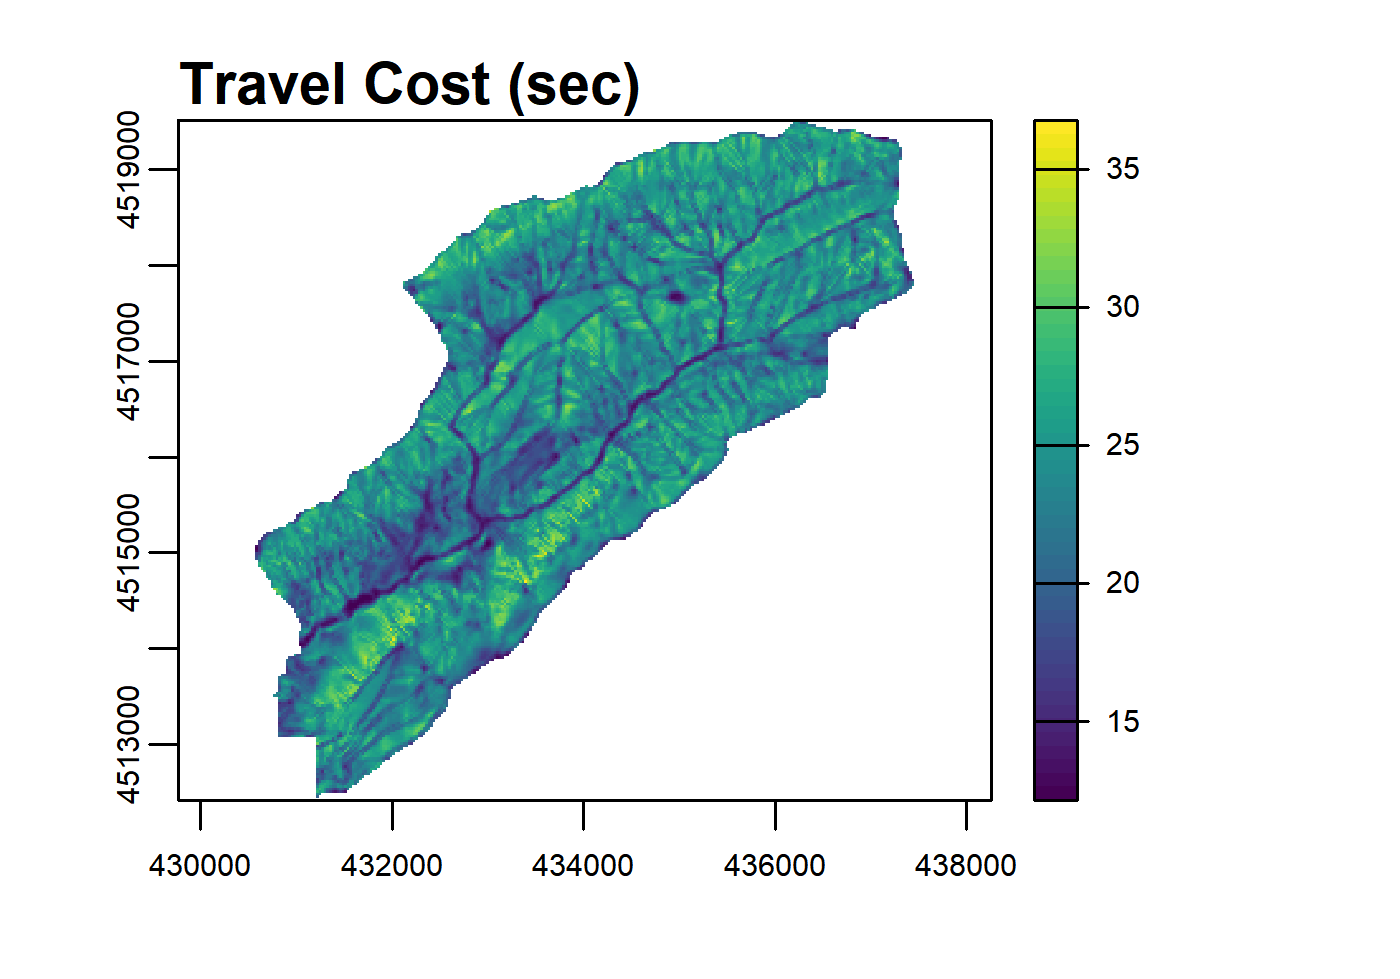
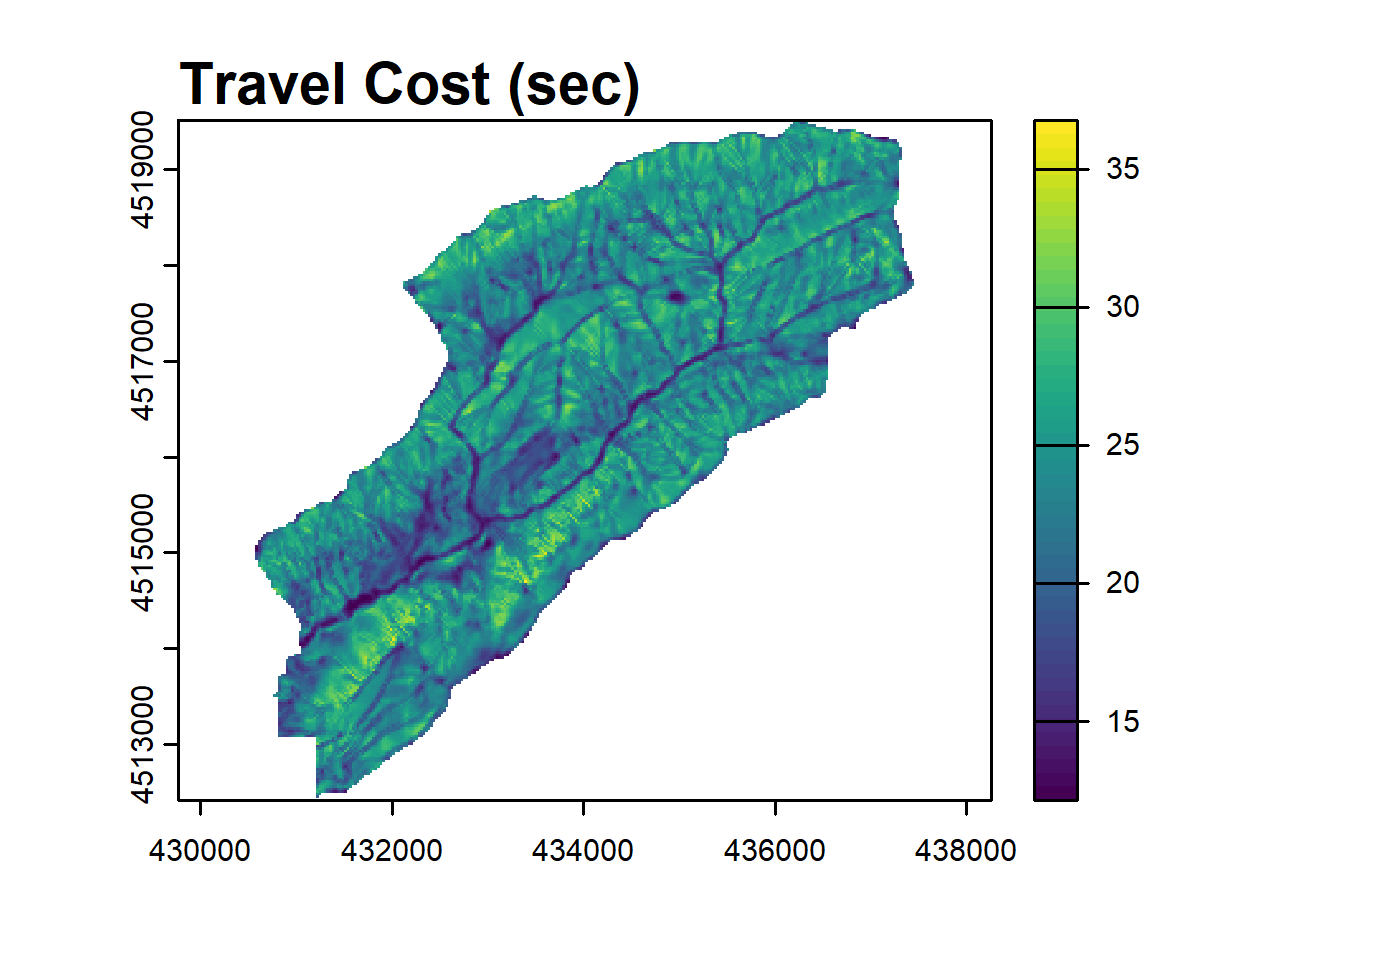
stuff

diff --git a/README.md b/README.md
@@ -15,19 +15,6 @@ package, though it works with more modern spatial tools, specifically
 [`sf`](https://r-spatial.github.io/sf/) and
 [`terra`](https://rspatial.github.io/terra/index.html).
 
-Note: `terra` is currently facing some issues with its underlying Rcpp
-that throw seemingly random warnings and errors (see, eg.,
-[\#30](https://github.com/rspatial/terra/issues/30)). For example, you
-might see:
-
-``` r
-Error in x$.self$finalize() : attempt to apply non-function 
-```
-
-Evidently, you can ignore these errors, though it’s still frustrating,
-and users of hiker will just have to live with it until it gets sorted
-out.
-
 ## Installation
 
 The hiker package is not currently on
@@ -48,6 +35,7 @@ University of Utah. If I wanted to hike up this canyon in the shortest
 time possible, what route should I take?
 
 ``` r
+
 library(hiker)
 library(sf)
 library(terra)
@@ -55,14 +43,19 @@ library(viridis)
 ```
 
 ``` r
+
 fn <- system.file("extdata/red_butte_dem.tif", package = "hiker")
 red_butte_dem <- rast(fn)
 
-from <- st_sf(geometry = st_sfc(st_point(c(432000, 4513100)),
-                                crs = 26912))
+from <- st_sf(
+  geometry = st_sfc(st_point(c(432000, 4513100))),
+  crs = 26912
+)
 
-to <- st_sf(geometry = st_sfc(st_point(c(436750, 4518500)),
-                              crs = 26912))
+to <- st_sf(
+  geometry = st_sfc(st_point(c(436750, 4518500))),
+  crs = 26912
+)
 ```
 
 To figure out the “shortest” path from start to end, we need to have
@@ -71,6 +64,7 @@ location in the canyon. This *cost surface* is the terrain we are hiking
 in R.
 
 ``` r
+
 (terrain <- hf_terrain(red_butte_dem))
 #> class       : terrain 
 #> dimensions  : 268, 260, 69680 (nrow, ncol, ncell)
@@ -84,7 +78,7 @@ in R.
 pax <- list(cex.axis = 0.65)
 plg <- list(cex = 0.65)
 
-plot(hf_rasterize(terrain), 
+plot(terrain, 
      col = viridis(50), 
      pax = pax, 
      plg = plg)
@@ -99,6 +93,7 @@ cost surface, to one of our three path functions. For instance,
 `hf_hike()` computes shortest paths and returns them as `sf` objects.
 
 ``` r
+
 short_path <- hf_hike(terrain, from, to)
 
 short_path
@@ -114,6 +109,7 @@ short_path
 Now we can visualize this `short_path`.
 
 ``` r
+
 plot(red_butte_dem, 
      col = viridis(50),
      pax = pax, 
@@ -147,9 +143,9 @@ plot(st_geometry(to),
 
 I am aware of three packages that offer similar functionality:
 
--   [`leastcostpath`](https://github.com/josephlewis/leastcostpath),
--   [`movecost`](https://github.com/cran/movecost), and
--   [`marmap`](https://github.com/ericpante/marmap)
+- [`leastcostpath`](https://github.com/josephlewis/leastcostpath),
+- [`movecost`](https://github.com/cran/movecost), and
+- [`marmap`](https://github.com/ericpante/marmap)
 
 The hiker package differs from these packages in the following ways:
 
@@ -170,7 +166,7 @@ The hiker package differs from these packages in the following ways:
 ## References
 
 Campbell, Michael J., Philip E. Dennison, Bret W. Butler, and Wesley G.
-Page (2019). "Using crowdsourced fitness tracker data to model the
+Page (2019). “Using crowdsourced fitness tracker data to model the
 relationship between slope and travel rates. *Applied Geography* 106,
 93-107. <https://doi.org/10.1016/j.apgeog.2019.03.008>
 
